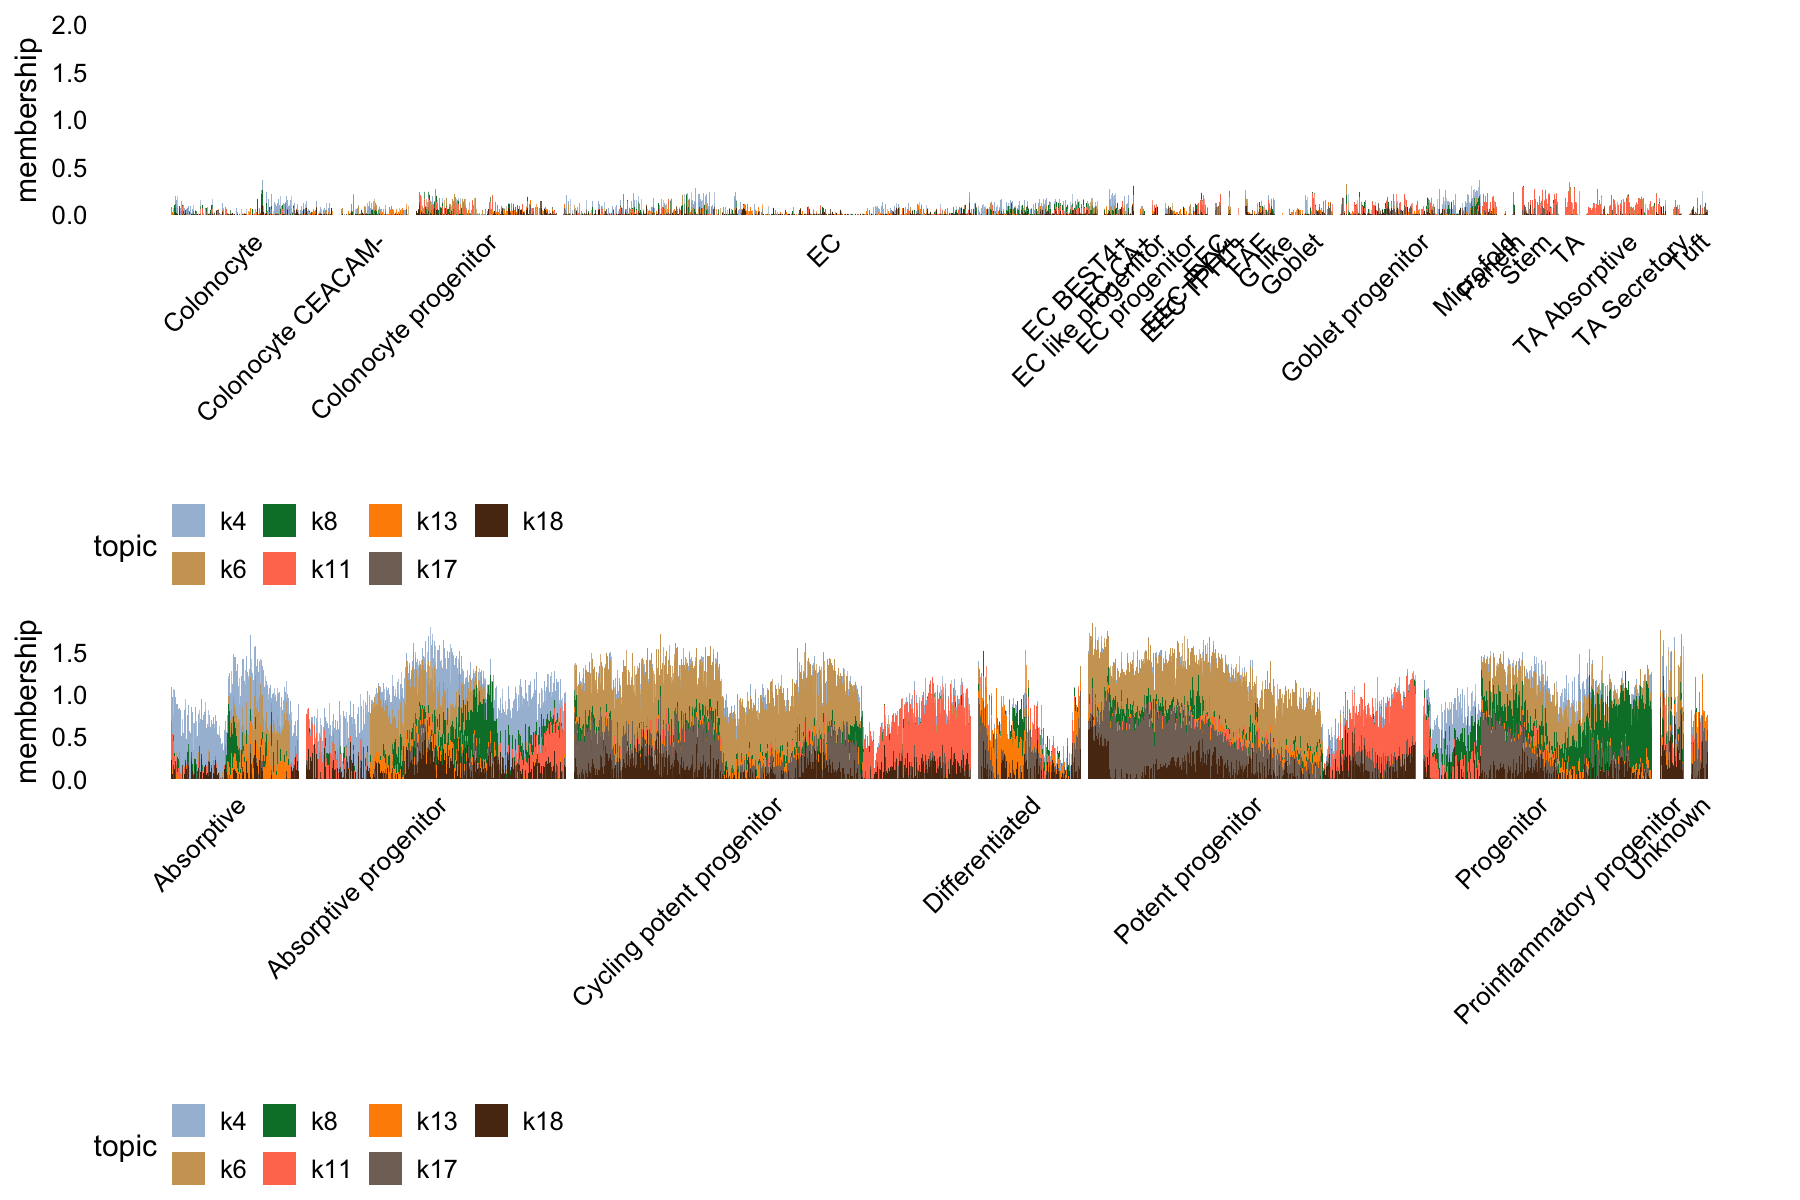
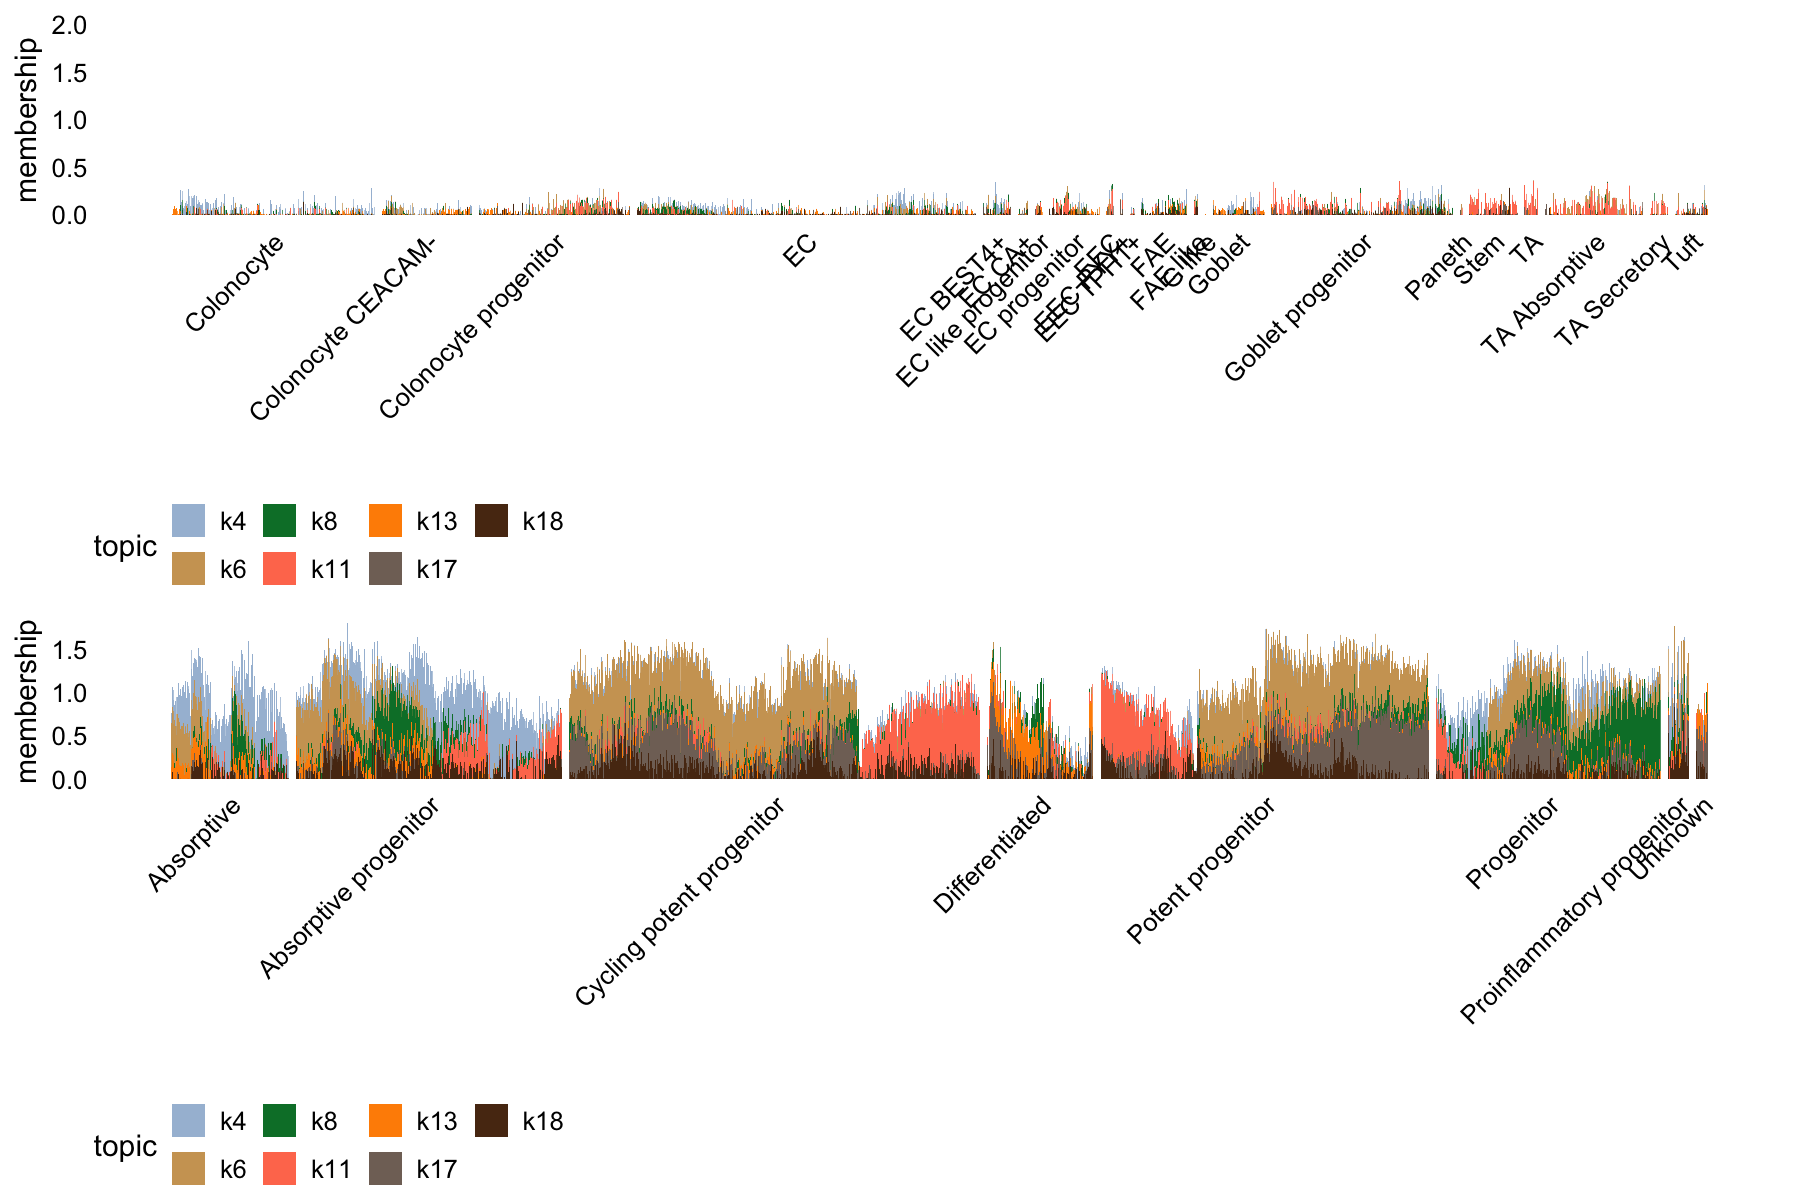
Subsampled the EC cells for the structure plots in the gca analysis.

diff --git a/docs/gca.html b/docs/gca.html
@@ -301,7 +301,7 @@ class="glyphicon glyphicon-ok text-success" aria-hidden="true"></span>
 <div class="tab-content">
 <div id="summary" class="tab-pane fade in active">
 <p>
-<strong>Last updated:</strong> 2026-03-16
+<strong>Last updated:</strong> 2026-03-17
 </p>
 <p>
 <strong>Checks:</strong> <span
@@ -433,15 +433,15 @@ project makes it easier to run your code on other machines.</p>
 <div class="panel panel-default">
 <div class="panel-heading">
 <p class="panel-title">
-<a data-toggle="collapse" data-parent="#workflowr-checks" href="#strongRepositoryversionstrongahrefhttpsgithubcomstephenslabsinglecelljamboreetreef6d72d29f4ed85f620af2e5c70ffba73f414d769targetblankf6d72d2a">
+<a data-toggle="collapse" data-parent="#workflowr-checks" href="#strongRepositoryversionstrongahrefhttpsgithubcomstephenslabsinglecelljamboreetree4a1993a232c798a83e2d237f48b2a8a40b7329a7targetblank4a1993aa">
 <span class="glyphicon glyphicon-ok text-success"
 aria-hidden="true"></span> <strong>Repository version:</strong>
-<a href="https://github.com/stephenslab/single-cell-jamboree/tree/f6d72d29f4ed85f620af2e5c70ffba73f414d769" target="_blank">f6d72d2</a>
+<a href="https://github.com/stephenslab/single-cell-jamboree/tree/4a1993a232c798a83e2d237f48b2a8a40b7329a7" target="_blank">4a1993a</a>
 </a>
 </p>
 </div>
 <div
[2 lines of base64/hex data omitted]
 class="panel-collapse collapse">
 <div class="panel-body">
 <p>
@@ -451,7 +451,7 @@ reproducibility.
 </p>
 <p>
 The results in this page were generated with repository version
-<a href="https://github.com/stephenslab/single-cell-jamboree/tree/f6d72d29f4ed85f620af2e5c70ffba73f414d769" target="_blank">f6d72d2</a>.
+<a href="https://github.com/stephenslab/single-cell-jamboree/tree/4a1993a232c798a83e2d237f48b2a8a40b7329a7" target="_blank">4a1993a</a>.
 See the <em>Past versions</em> tab to see a history of the changes made
 to the R Markdown and HTML files.
 </p>
@@ -528,6 +528,40 @@ Message
 </tr>
 </thead>
 <tbody>
+<tr>
+<td>
+Rmd
+</td>
+<td>
+<a href="https://github.com/stephenslab/single-cell-jamboree/blob/4a1993a232c798a83e2d237f48b2a8a40b7329a7/analysis/gca.Rmd" target="_blank">4a1993a</a>
+</td>
+<td>
+Peter Carbonetto
+</td>
+<td>
+2026-03-17
+</td>
+<td>
+wflow_publish("gca.Rmd", verbose = T, view = F)
+</td>
+</tr>
+<tr>
+<td>
+html
+</td>
+<td>
+<a href="https://rawcdn.githack.com/stephenslab/single-cell-jamboree/96c06135655bfa663e488cd0e934803df8a76a0f/docs/gca.html" target="_blank">96c0613</a>
+</td>
+<td>
+Peter Carbonetto
+</td>
+<td>
+2026-03-16
+</td>
+<td>
+Ran wflow_publish("gca.Rmd").
+</td>
+</tr>
 <tr>
 <td>
 Rmd
@@ -653,6 +687,14 @@ with <span class="math inline">\(k = 30\)</span>:</p>
 <pre class="r"><code>load(&quot;../output/gca_nmf_k=20.RData&quot;)
 L &lt;- fl_nmf_ldf$L
 colnames(L) &lt;- paste0(&quot;k&quot;,1:20)</code></pre>
+<p>For better structure plots, subsample the EC cells:</p>
+<pre class="r"><code>rows1 &lt;- which(sample_info$celltype == &quot;EC&quot;)
+rows2 &lt;- which(sample_info$celltype != &quot;EC&quot;)
+rows1 &lt;- sample(rows1,8000)
+rows  &lt;- c(rows1,rows2)
+rows  &lt;- sort(rows)
+L     &lt;- L[rows,]
+sample_info &lt;- sample_info[rows,]</code></pre>
 <p>Gene programs specific to tissues:</p>
 <pre class="r"><code>topics_tissue &lt;- c(&quot;k2&quot;,&quot;k3&quot;,&quot;k9&quot;,&quot;k12&quot;,&quot;k14&quot;,&quot;k15&quot;,&quot;k20&quot;)
 topic_colors &lt;-
@@ -673,6 +715,43 @@ p2 &lt;- structure_plot(L[rows2,],gap = 10,topics = topics_tissue,
   ylim(0,1)
 plot_grid(p1,p2,nrow = 2,ncol = 1)</code></pre>
 <p><img src="figure/gca.Rmd/structure-plots-tissues-1.png" width="900" style="display: block; margin: auto;" /></p>
+<p>
+<button type="button" class="btn btn-default btn-xs btn-workflowr btn-workflowr-fig" data-toggle="collapse" data-target="#fig-structure-plots-tissues-1">
+Past versions of structure-plots-tissues-1.png
+</button>
+</p>
+<div id="fig-structure-plots-tissues-1" class="collapse">
+<div class="table-responsive">
+<table class="table table-condensed table-hover">
+<thead>
+<tr>
+<th>
+Version
+</th>
+<th>
+Author
+</th>
+<th>
+Date
+</th>
+</tr>
+</thead>
+<tbody>
+<tr>
+<td>
+<a href="https://github.com/stephenslab/single-cell-jamboree/blob/96c06135655bfa663e488cd0e934803df8a76a0f/docs/figure/gca.Rmd/structure-plots-tissues-1.png" target="_blank">96c0613</a>
+</td>
+<td>
+Peter Carbonetto
+</td>
+<td>
+2026-03-16
+</td>
+</tr>
+</tbody>
+</table>
+</div>
+</div>
 <p>Gene programs pecific to organoids:</p>
 <pre class="r"><code>topics_organoid &lt;- c(&quot;k4&quot;,&quot;k6&quot;,&quot;k8&quot;,&quot;k11&quot;,&quot;k13&quot;,&quot;k17&quot;,&quot;k18&quot;)
 rows1 &lt;- which(sample_info$origin == &quot;Tissue&quot;)
@@ -688,6 +767,43 @@ p4 &lt;- structure_plot(L[rows2,],gap = 10,topics = topics_organoid,
   labs(y = &quot;membership&quot;)
 plot_grid(p3,p4,nrow = 2,ncol = 1)</code></pre>
 <p><img src="figure/gca.Rmd/structure-plots-organoids-1.png" width="900" style="display: block; margin: auto;" /></p>
+<p>
+<button type="button" class="btn btn-default btn-xs btn-workflowr btn-workflowr-fig" data-toggle="collapse" data-target="#fig-structure-plots-organoids-1">
+Past versions of structure-plots-organoids-1.png
+</button>
+</p>
+<div id="fig-structure-plots-organoids-1" class="collapse">
+<div class="table-responsive">
+<table class="table table-condensed table-hover">
+<thead>
+<tr>
+<th>
+Version
+</th>
+<th>
+Author
+</th>
+<th>
+Date
+</th>
+</tr>
+</thead>
+<tbody>
+<tr>
+<td>
+<a href="https://github.com/stephenslab/single-cell-jamboree/blob/96c06135655bfa663e488cd0e934803df8a76a0f/docs/figure/gca.Rmd/structure-plots-organoids-1.png" target="_blank">96c0613</a>
+</td>
+<td>
+Peter Carbonetto
+</td>
+<td>
+2026-03-16
+</td>
+</tr>
+</tbody>
+</table>
+</div>
+</div>
 <p>Gene programs shared by both:</p>
 <pre class="r"><code>topics_shared &lt;- c(&quot;k5&quot;,&quot;k7&quot;,&quot;k10&quot;,&quot;k16&quot;,&quot;k19&quot;)
 rows1 &lt;- which(sample_info$origin == &quot;Tissue&quot;)
@@ -702,6 +818,43 @@ p6 &lt;- structure_plot(L[rows2,],gap = 10,topics = topics_shared,
   labs(y = &quot;membership&quot;)
 plot_grid(p5,p6,nrow = 2,ncol = 1)</code></pre>
 <p><img src="figure/gca.Rmd/structure-plots-shared-1.png" width="900" style="display: block; margin: auto;" /></p>
+<p>
+<button type="button" class="btn btn-default btn-xs btn-workflowr btn-workflowr-fig" data-toggle="collapse" data-target="#fig-structure-plots-shared-1">
+Past versions of structure-plots-shared-1.png
+</button>
+</p>
+<div id="fig-structure-plots-shared-1" class="collapse">
+<div class="table-responsive">
+<table class="table table-condensed table-hover">
+<thead>
+<tr>
+<th>
+Version
+</th>
+<th>
+Author
+</th>
+<th>
+Date
+</th>
+</tr>
+</thead>
+<tbody>
+<tr>
+<td>
+<a href="https://github.com/stephenslab/single-cell-jamboree/blob/96c06135655bfa663e488cd0e934803df8a76a0f/docs/figure/gca.Rmd/structure-plots-shared-1.png" target="_blank">96c0613</a>
+</td>
+<td>
+Peter Carbonetto
+</td>
+<td>
+2026-03-16
+</td>
+</tr>
+</tbody>
+</table>
+</div>
+</div>
 <br>
 <p>
 <button type="button" class="btn btn-default btn-workflowr btn-workflowr-sessioninfo" data-toggle="collapse" data-target="#workflowr-sessioninfo" style="display: block;">
